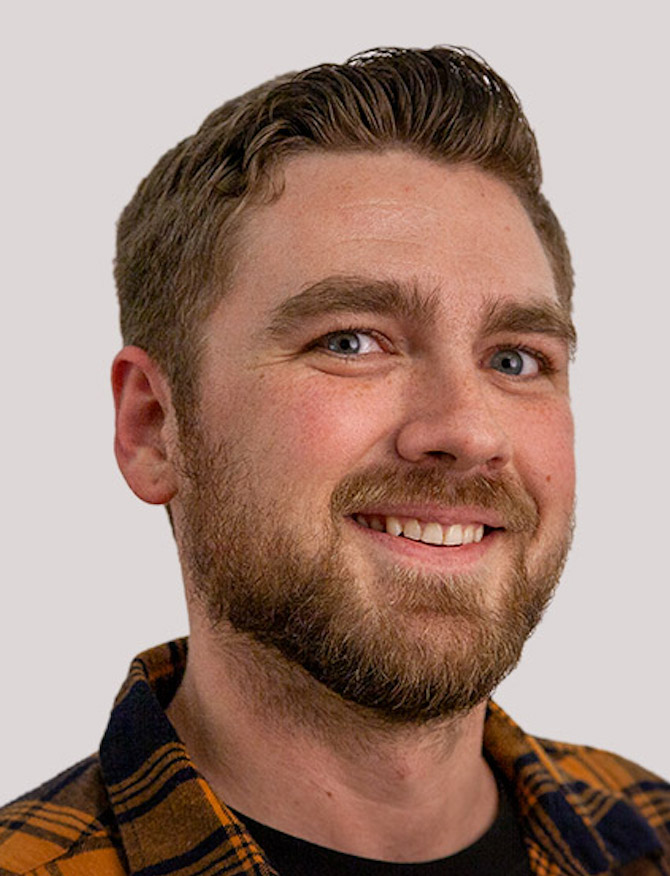
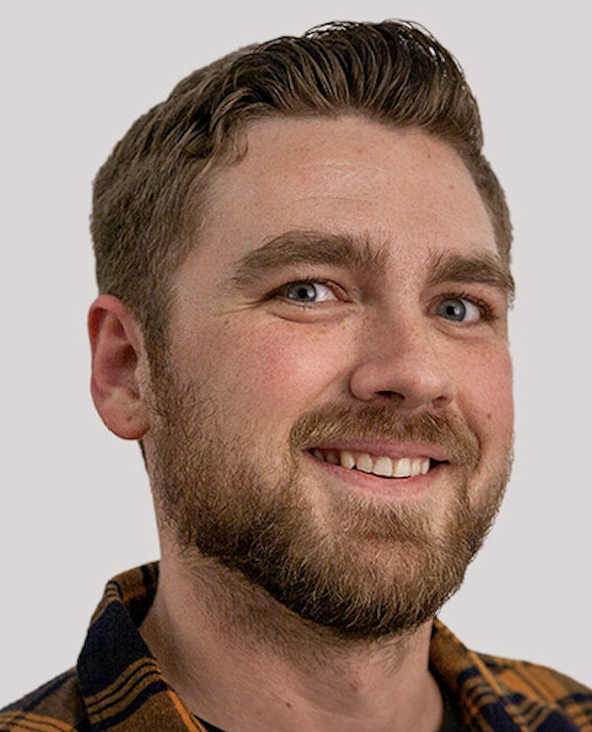
change team photo add cody

diff --git a/client/components/infopage.jsx b/client/components/infopage.jsx
@@ -91,39 +91,45 @@ export default class InfoPage extends React.Component {
         } else if (this.props.infoPageView === 'teamMembers') {
             return(
                 <div className="container membersContainer text-center py-3">
-                    <div className="row my-3">
+                    <div className="row my-2">
                         <div className="col-12">
                             <div className="poiretTitle">Our Team</div>
                         </div>
                     </div>
                     <div className="row pt-3 align-items-center">
-                        <img src="images/Steve.png" alt="steve" className="col-4 .img-fluid"/>
+                        <img src="images/Steve.png" alt="steve" className="col-4"/>
                         <div className="col-8">
                             <p style={{"fontSize":"1.65rem"}}>Steve Min</p>
                         </div>
                     </div>
                     <div className="row pt-3 align-items-center">
-                        <img src="images/Nick.png" alt="nick" className="col-4 .img-fluid"/>
+                        <img src="images/Nick.png" alt="nick" className="col-4"/>
                         <div className="col-8">
                             <p style={{"fontSize":"1.65rem"}}>Nick Simoncelli</p>
                         </div>
                     </div>
                     <div className="row pt-3 align-items-center">
-                        <img src="images/Tony.jpeg" alt="tony" className="col-4 .img-fluid"/>
+                        <img src="images/Tony.jpeg" alt="tony" className="col-4"/>
                         <div className="col-8">
                             <p style={{"fontSize":"1.65rem"}}>Tony Jin</p>
                         </div>
                     </div>
                     <div className="row pt-3 align-items-center">
-                        <img src="images/Elliot.jpeg" alt="elliot" className="col-4 .img-fluid"/>
+                        <img src="images/Elliot.jpeg" alt="elliot" className="col-4"/>
                         <div className="col-8">
                             <p style={{"fontSize":"1.65rem"}}>Elliot Han</p>
                         </div>
                     </div>
                     <div className="row pt-3 align-items-center">
-                        <img src="images/Bisham.JPG" alt="bisham" className="col-4 .img-fluid"/>
+                        <img src="images/Bisham.JPG" alt="bisham" className="col-4"/>
                         <div className="col-8">
                             <p style={{"fontSize":"1.65rem"}}>Bisham Mohabir</p>
+                        </div>
+                    </div>
+                    <div className="row pt-3 align-items-center">
+                        <img src="images/cody.jpg" alt="cody" className="col-4"/>
+                        <div className="col-8">
+                            <p style={{"fontSize":"1.65rem"}}>Cody Miller</p>
                         </div>
                     </div>
                 </div>
